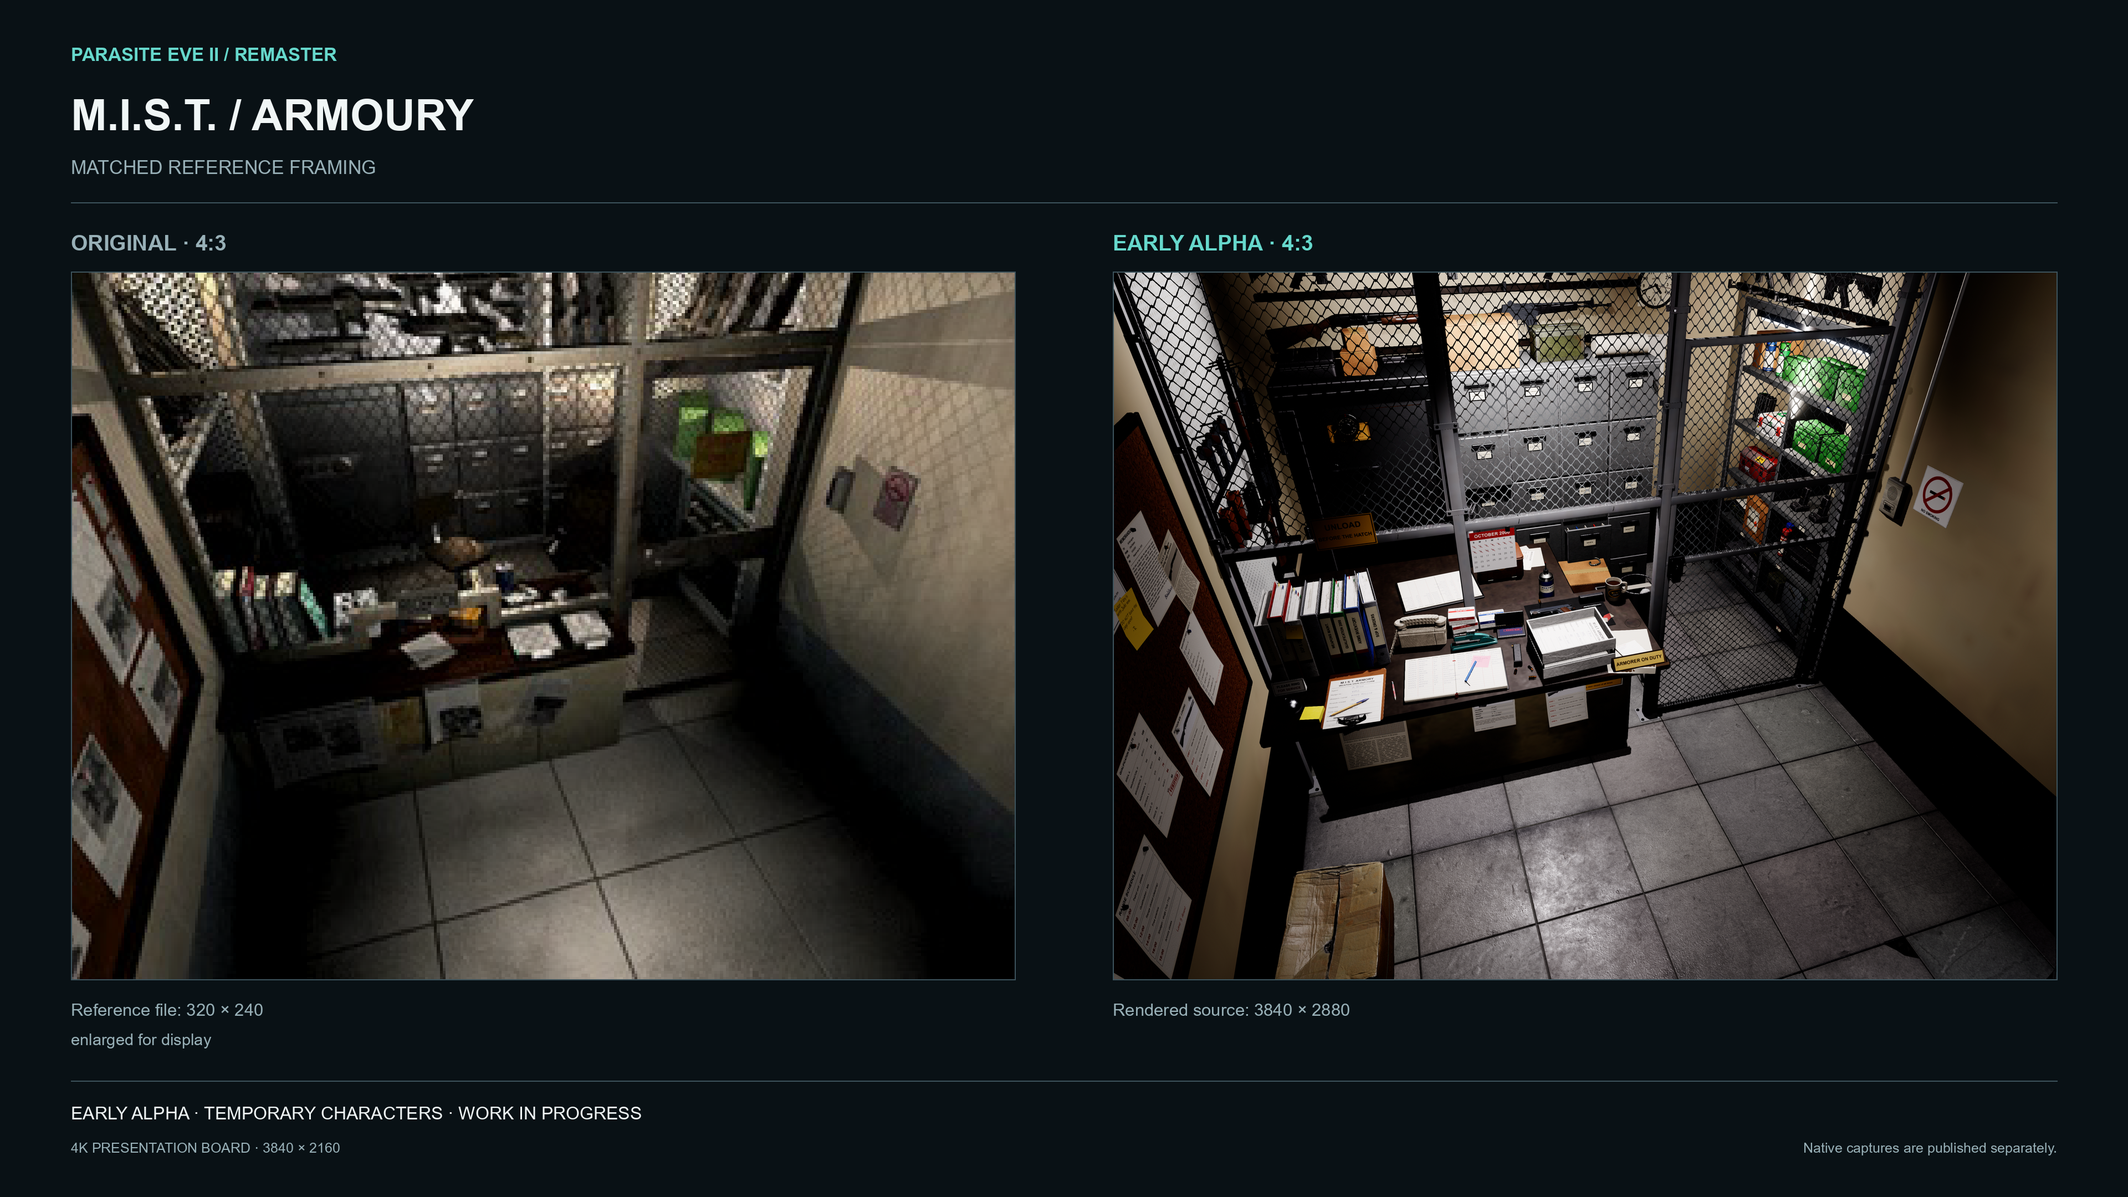
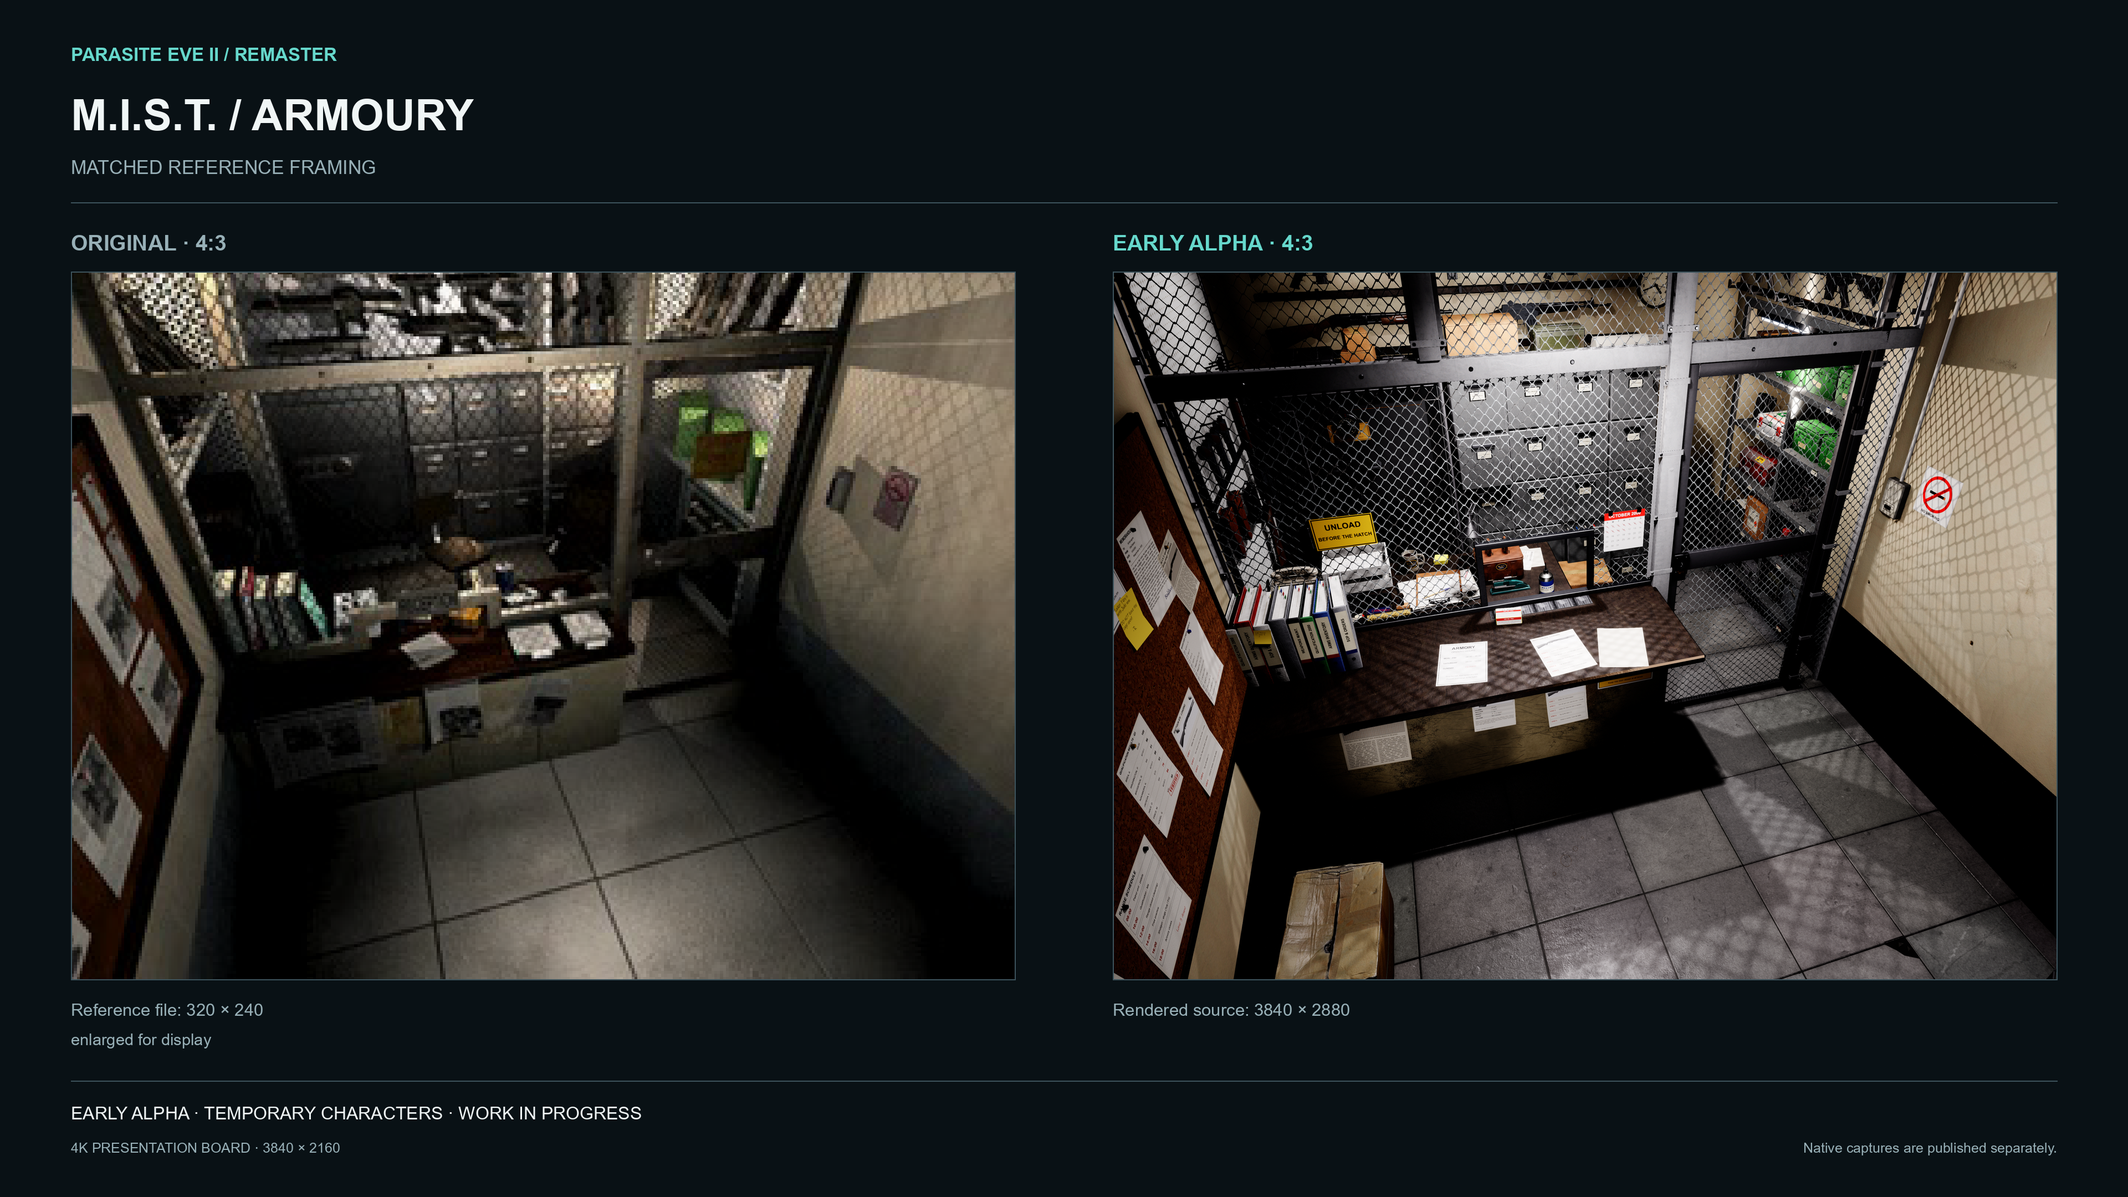
Update the monitoring room and armoury pictures: the gun display rebuilt from the original, the armoury's cage and counter refitted with its shadows
Monitoring room (view 2): the gun display rebuilt from the original frame, the desk's end panel, the darker wall above; no character in frame. Armoury (view 24): one header rail, a dark gate, the counter closed by the mesh with a single pass-through, the desk moved to the armourer's side, the mesh's shadow on the wall. Native captures, boards, widescreen views and the two evolution boards re-rendered; the 28 October capture kept for the before/after board; dated notes added.

Changed region(s): [[0.5, 0.2171, 0.9688, 0.8375]]

diff --git a/docs/PROGRESS.fr.md b/docs/PROGRESS.fr.md
@@ -19,6 +19,18 @@ Le travail avance par passes : construire, comparer, tester, puis corriger. Les 
 
 Aucune date de sortie n’est annoncée. Les voix, les cinématiques et l’extension au-delà des espaces actuels restent des pistes pour la suite.
 
+## Salle de surveillance et armurerie du M.I.S.T. — point du 30 octobre 2026
+
+**La salle de surveillance.** Le présentoir à pistolets du fond de la salle est refait d’après l’image originale, mesurée point par point : un meuble bas sur tout le mur du fond, quatre gradins clairs inclinés vers la pièce et cinq casiers. Chaque arme repose sur du feutre, tenue par un câble antivol passé dans son pontet, avec son étiquette imprimée ; un casier est vide, son arme sortie. Une joue sombre devant le bureau, que l’original ne dessine jamais, est devenue le panneau de bout du bureau, et le mur au-dessus du présentoir est plus sombre, comme dans l’original.
+
+**L’armurerie.** La cage suit l’image originale : un seul rail haut sur toute la largeur, deux poteaux clairs et rien entre eux, un portillon sombre avec sa traverse. Le comptoir est fermé par le grillage, avec un unique passe-objets encadré devant l’armurière : les objets passent, pas les personnes. Les papiers, le téléphone, les bannettes et le pistolet démonté sont passés sur le plan de travail de l’armurière, derrière le grillage ; côté clients ne reste que ce que l’original y montre (les classeurs, quelques feuilles, une boîte de cartouches).
+
+**Lumière et ombres.** Une lampe dans la cage projette les losanges du grillage, le rail haut et la traverse du portillon sur le mur nord, là où l’original les montre, et le côté clients est plus éclairé pour le jeu.
+
+**Images mises à jour.** Les comparaisons de la salle de surveillance et de l’armurerie, leurs captures natives et leurs vues 16:9, et les deux planches correspondantes de l’[évolution en images](EVOLUTION.fr.md).
+
+[![L’armurerie — original (gauche) et alpha (droite)](../media/comparisons/mist-armoury-4x3.png)](../media/alpha/mist-armoury-4x3.png)
+
 ## Matières du M.I.S.T. et armurerie — point du 28 octobre 2026
 
 **Matières.** Les surfaces du M.I.S.T. passent de textures procédurales à des textures photographiées (scans du domaine public), recolorées sur la palette d’origine pour que les pièces gardent leur allure. Là où une surface porte un dessin unique (panneaux du stand, plaques de sol, usure peinte), ce dessin est conservé et seul le grain photographié s’y ajoute. Les sols carrelés reçoivent leur usure d’une couche photographiée étalée sur toute la pièce : aucune marque ne se répète d’un carreau à l’autre.
@@ -27,7 +39,7 @@ Aucune date de sortie n’est annoncée. Les voix, les cinématiques et l’exte
 
 **Images mises à jour.** Les comparaisons du couloir, de la porte de la zone restreinte, de l’armurerie et du hall ont été refaites ; une planche avant/après montre la passe de l’armurerie.
 
-[![L’armurerie avant et après la passe de détail](../media/comparisons/mist-armoury-detail-4x3.png)](../media/alpha/mist-armoury-4x3.png)
+[![L’armurerie avant et après la passe de détail](../media/comparisons/mist-armoury-detail-4x3.png)](../media/alpha/mist-armoury-after-4x3.png)
 
 ## M.I.S.T., destruction et Akropolis — point du 20 octobre 2026
 

diff --git a/docs/PROGRESS.md b/docs/PROGRESS.md
@@ -19,6 +19,18 @@ Work progresses in focused passes: build, compare, test, then correct. Screensho
 
 There is no release ETA. Voice acting, cinematic work and expansion beyond the current environments are future possibilities, not completed features.
 
+## M.I.S.T. monitoring room and armoury — update of 30 October 2026
+
+**The monitoring room.** The gun display at the back of the room is rebuilt from the original frame, measured on it point by point: a low unit along the back wall with four light tiers sloping toward the room and five bays. Each handgun lies on felt, held by a security cable through its trigger guard, with a printed tag; one bay is empty, its gun signed out. A dark fin in front of the desk, which the original never draws, became the desk’s end panel, and the wall above the display is darker, as in the original.
+
+**The armoury.** The cage follows the original frame: one header rail across the whole width, two light posts and nothing in between, a dark gate with its middle rail. The counter is closed by the mesh, with a single framed pass-through in front of the armourer: things go through, people do not. The paperwork, the phone, the trays and the field-stripped pistol moved to the armourer’s worktop behind the mesh; the customers’ side keeps only what the original shows there (the binders, a few loose sheets, a carton of rounds).
+
+**Light and shadows.** A lamp inside the cage throws the mesh’s diamonds, the header and the gate’s top rail onto the north wall, where the original shows them, and the customers’ side is lit brighter for play.
+
+**Updated pictures.** The monitoring room and armoury comparisons, their native captures and widescreen views, and the two matching boards of the [visual evolution](EVOLUTION.md).
+
+[![The armoury — original (left) and alpha (right)](../media/comparisons/mist-armoury-4x3.png)](../media/alpha/mist-armoury-4x3.png)
+
 ## M.I.S.T. materials and the armoury — update of 28 October 2026
 
 **Materials.** The surfaces of M.I.S.T. move from procedural textures to photographed ones (public-domain scans), recoloured to the original palette so the rooms keep their look. Where a surface carries a unique design (the range’s wall panels, the floor plates, painted wear), that design is kept and only the photographed grain is added. Tiled floors get their wear from one photographed layer spread over the whole room, so no mark repeats from tile to tile.
@@ -27,7 +39,7 @@ There is no release ETA. Voice acting, cinematic work and expansion beyond the c
 
 **Updated pictures.** The corridor, restricted door, armoury and hall comparisons were re-rendered; a before/after board shows the armoury pass.
 
-[![The armoury before and after the detail pass](../media/comparisons/mist-armoury-detail-4x3.png)](../media/alpha/mist-armoury-4x3.png)
+[![The armoury before and after the detail pass](../media/comparisons/mist-armoury-detail-4x3.png)](../media/alpha/mist-armoury-after-4x3.png)
 
 ## M.I.S.T., destruction and Akropolis — update of 20 October 2026
 

diff --git a/README.fr.md b/README.fr.md
@@ -28,13 +28,15 @@ Ce dépôt présente les avancées du projet. Il s’agit d’une **alpha de dé
 
 **Une armurerie détaillée.** Une cage en grillage galvanisé tissé, avec ses fixations, ses boulons, ses charnières et son cadenas ; des classeurs usés, des feuilles qui gondolent, un carton cabossé et les petits objets d’un vrai bureau ; de vraies ombres qui posent chaque objet sur son support.
 
+**La salle de surveillance et l’armurerie, recalées sur l’original (30 octobre).** Le présentoir à pistolets de la salle de surveillance est refait d’après l’image originale : quatre gradins inclinés, les armes posées à plat et câblées. Dans l’armurerie, la cage suit maintenant l’original : un seul rail haut, un portillon sombre, et le comptoir fermé par le grillage avec un unique passe-objets. Les papiers du bureau sont passés du côté de l’armurière, et une lampe dans la cage projette l’ombre du grillage sur le mur, comme dans l’original. [Détails](docs/PROGRESS.fr.md#salle-de-surveillance-et-armurerie-du-mist--point-du-30-octobre-2026)
+
 **Ce dépôt est le meilleur endroit pour suivre le projet.** Il est mis à jour au fil du travail, avec de nouvelles comparaisons, des captures natives et des notes d’avancement datées.
 
 **[Évolution en images](docs/EVOLUTION.fr.md).** Chaque plan fixe du M.I.S.T. au fil d’octobre, de la première version complète à aujourd’hui, au même cadrage que l’original.
 
 <p align="center"><a href="media/comparisons/mist-armoury-detail-4x3.png"><img src="media/comparisons/mist-armoury-detail-4x3.png" alt="Armurerie du M.I.S.T. — le même plan fixe avant (gauche) et après (droite) la passe de détail" width="100%"></a></p>
 
-<p align="center"><sub>L’armurerie du M.I.S.T. · le même plan fixe avant (20 octobre) et après (28 octobre) la passe de détail · planche 3840 × 2160 · <a href="media/alpha/mist-armoury-before-4x3.png">avant</a> · <a href="media/alpha/mist-armoury-4x3.png">après</a></sub></p>
+<p align="center"><sub>L’armurerie du M.I.S.T. · le même plan fixe avant (20 octobre) et après (28 octobre) la passe de détail · planche 3840 × 2160 · <a href="media/alpha/mist-armoury-before-4x3.png">avant</a> · <a href="media/alpha/mist-armoury-after-4x3.png">après</a></sub></p>
 
 ## Nouveautés · octobre 2026
 

diff --git a/docs/EVOLUTION.fr.md b/docs/EVOLUTION.fr.md
@@ -10,7 +10,7 @@ Chaque plan fixe du M.I.S.T. au fil d’octobre 2026, tel qu’il était à la f
 
 **11 – 20 octobre · plus près de l’original.** Le garage et l’armurerie sont recalés sur les images originales (12 octobre). Chaque plan est ensuite comparé à l’original, plan par plan, dans la version jeu (13 octobre), puis viennent une passe de placement et une passe d’éclairage. La destruction arrive à partir du 15 octobre.
 
-**21 – 31 octobre · matières et détail.** La suite de la destruction (impacts, doublage des murs, armoires à fusils), les matières photographiées dans tout le M.I.S.T. (28 octobre), la passe de détail de l’armurerie (28 octobre) et le présentoir à pistolets de la salle de surveillance, refait d’après l’original et détaillé (30 octobre).
+**21 – 31 octobre · matières et détail.** La suite de la destruction (impacts, doublage des murs, armoires à fusils), les matières photographiées dans tout le M.I.S.T. (28 octobre), la passe de détail de l’armurerie (28 octobre), le présentoir à pistolets de la salle de surveillance, refait d’après l’original et détaillé (30 octobre), et la cage et le comptoir de l’armurerie, recalés sur l’original (30 octobre).
 
 Les images du 14 octobre viennent de la version jeu elle-même ; les autres viennent de l’éditeur. Une capture 16:9 ou 16:10 garde toute la largeur de l’original : dans un cadre 4:3, elle montre des bandes sombres en haut et en bas. Cliquez sur une planche pour l’ouvrir en taille réelle (3200 × 2734).
 
@@ -140,7 +140,7 @@ Les images du 14 octobre viennent de la version jeu elle-même ; les autres vien
 
 [![Armurerie — original et trois captures d’octobre au même cadrage](../media/evolution/mist-evolution-armoury.jpg)](../media/evolution/mist-evolution-armoury.jpg)
 
-10 oct. · première version complète, mannequin provisoire → 20 oct. · après la passe d’éclairage → 28 oct. · passe de détail de l’armurerie
+10 oct. · première version complète, mannequin provisoire → 20 oct. · après la passe d’éclairage → 30 oct. · cage et comptoir recalés sur l’original
 
 
 ## Parking

diff --git a/README.md b/README.md
@@ -28,13 +28,15 @@ This repository is a public progress showcase. The project is an **early develop
 
 **A detailed armoury.** A woven galvanised cage with its fittings, bolts, hinges and padlock; worn binders, curling paper, a battered carton and the small things of a working desk; real shadows that set every object on its surface.
 
+**The monitoring room and the armoury, refitted to the original (30 October).** The monitoring room’s gun display is rebuilt from the original frame: four sloping tiers, the handguns laid flat and cabled. In the armoury, the cage now follows the original: one header rail, a dark gate, and the counter closed by the mesh with a single pass-through. The desk’s paperwork has moved to the armourer’s side, and a lamp inside the cage casts the mesh’s shadow on the wall, as in the original. [Details](docs/PROGRESS.md#mist-monitoring-room-and-armoury--update-of-30-october-2026)
+
 **This repository is the best place to follow the project.** It is updated as the work moves on, with new comparisons, native captures and dated progress notes.
 
 **[Visual evolution](docs/EVOLUTION.md).** Every fixed view of M.I.S.T. through October, from the first complete build to today, at the same framing as the original.
 
 <p align="center"><a href="media/comparisons/mist-armoury-detail-4x3.png"><img src="media/comparisons/mist-armoury-detail-4x3.png" alt="M.I.S.T. armoury — the same fixed view before (left) and after (right) the detail pass" width="100%"></a></p>
 
-<p align="center"><sub>The M.I.S.T. armoury · the same fixed view before (20 October) and after (28 October) the detail pass · board 3840 × 2160 · <a href="media/alpha/mist-armoury-before-4x3.png">before</a> · <a href="media/alpha/mist-armoury-4x3.png">after</a></sub></p>
+<p align="center"><sub>The M.I.S.T. armoury · the same fixed view before (20 October) and after (28 October) the detail pass · board 3840 × 2160 · <a href="media/alpha/mist-armoury-before-4x3.png">before</a> · <a href="media/alpha/mist-armoury-after-4x3.png">after</a></sub></p>
 
 ## What’s new · October 2026
 

diff --git a/docs/EVOLUTION.md b/docs/EVOLUTION.md
@@ -10,7 +10,7 @@ Every fixed view of M.I.S.T. through October 2026, as it looked at the end of ea
 
 **11 – 20 October · closer to the original.** The garage and the armoury were fitted on the original frames (12 October). Every view was then compared shot by shot with the original inside the game build (13 October), followed by a placement pass and a lighting pass. Destruction arrived from 15 October.
 
-**21 – 31 October · materials and detail.** The destruction follow-up (impacts, wall backing, the gun cabinets), photographed materials across the whole of M.I.S.T. (28 October), the armoury detail pass (28 October) and the monitoring room’s gun display, rebuilt from the original and detailed (30 October).
+**21 – 31 October · materials and detail.** The destruction follow-up (impacts, wall backing, the gun cabinets), photographed materials across the whole of M.I.S.T. (28 October), the armoury detail pass (28 October), the monitoring room’s gun display, rebuilt from the original and detailed (30 October), and the armoury’s cage and counter, refitted to the original (30 October).
 
 The 14 October pictures come from the game build itself; the others come from the editor. A 16:9 or 16:10 capture keeps the original’s full width, so it shows dark bands above and below in a 4:3 panel. Click a board to open it at full size (3200 × 2734).
 
@@ -140,7 +140,7 @@ The 14 October pictures come from the game build itself; the others come from th
 
 [![Armoury — original and three October captures at the same framing](../media/evolution/mist-evolution-armoury.jpg)](../media/evolution/mist-evolution-armoury.jpg)
 
-10 Oct · first complete build, temporary mannequin → 20 Oct · after the lighting pass → 28 Oct · armoury detail pass
+10 Oct · first complete build, temporary mannequin → 20 Oct · after the lighting pass → 30 Oct · cage and counter refitted to the original
 
 
 ## Parking

diff --git a/docs/GALLERY.fr.md b/docs/GALLERY.fr.md
@@ -25,7 +25,7 @@ Planche 3840 × 2160 · [capture native 3840 × 2880](../media/alpha/mist-hall-4
 
 [![Comparaison de la salle de surveillance](../media/comparisons/mist-pierce-4x3.png)](../media/alpha/mist-pierce-4x3.png)
 
-Planche 3840 × 2160 · [capture native 3840 × 2880](../media/alpha/mist-pierce-4x3.png) · personnage provisoire.
+Planche 3840 × 2160 · [capture native 3840 × 2880](../media/alpha/mist-pierce-4x3.png) · aucun personnage dans le champ.
 
 ### Sas-vestibule
 
@@ -41,9 +41,9 @@ Planche 3840 × 2160 · [capture native 3840 × 2880](../media/alpha/mist-armour
 
 ### L’armurerie du M.I.S.T. · avant et après la passe de détail
 
-[![Armurerie du M.I.S.T. avant et après la passe de détail](../media/comparisons/mist-armoury-detail-4x3.png)](../media/alpha/mist-armoury-4x3.png)
+[![Armurerie du M.I.S.T. avant et après la passe de détail](../media/comparisons/mist-armoury-detail-4x3.png)](../media/alpha/mist-armoury-after-4x3.png)
 
-Planche 3840 × 2160 · [avant](../media/alpha/mist-armoury-before-4x3.png) · [après](../media/alpha/mist-armoury-4x3.png) · aucun personnage dans le champ.
+Planche 3840 × 2160 · [avant](../media/alpha/mist-armoury-before-4x3.png) · [après](../media/alpha/mist-armoury-after-4x3.png) · aucun personnage dans le champ.
 
 ### Porte de la zone d’accès restreint
 

diff --git a/docs/GALLERY.md b/docs/GALLERY.md
@@ -25,7 +25,7 @@ Board 3840 × 2160 · [native capture 3840 × 2880](../media/alpha/mist-hall-4x3
 
 [![Monitoring room comparison](../media/comparisons/mist-pierce-4x3.png)](../media/alpha/mist-pierce-4x3.png)
 
-Board 3840 × 2160 · [native capture 3840 × 2880](../media/alpha/mist-pierce-4x3.png) · temporary character.
+Board 3840 × 2160 · [native capture 3840 × 2880](../media/alpha/mist-pierce-4x3.png) · no character in frame.
 
 ### Airlock vestibule
 
@@ -41,9 +41,9 @@ Board 3840 × 2160 · [native capture 3840 × 2880](../media/alpha/mist-armoury-
 
 ### M.I.S.T. armoury · before and after the detail pass
 
-[![M.I.S.T. armoury before and after the detail pass](../media/comparisons/mist-armoury-detail-4x3.png)](../media/alpha/mist-armoury-4x3.png)
+[![M.I.S.T. armoury before and after the detail pass](../media/comparisons/mist-armoury-detail-4x3.png)](../media/alpha/mist-armoury-after-4x3.png)
 
-Board 3840 × 2160 · [before](../media/alpha/mist-armoury-before-4x3.png) · [after](../media/alpha/mist-armoury-4x3.png) · no character in frame.
+Board 3840 × 2160 · [before](../media/alpha/mist-armoury-before-4x3.png) · [after](../media/alpha/mist-armoury-after-4x3.png) · no character in frame.
 
 ### Restricted area door
 
